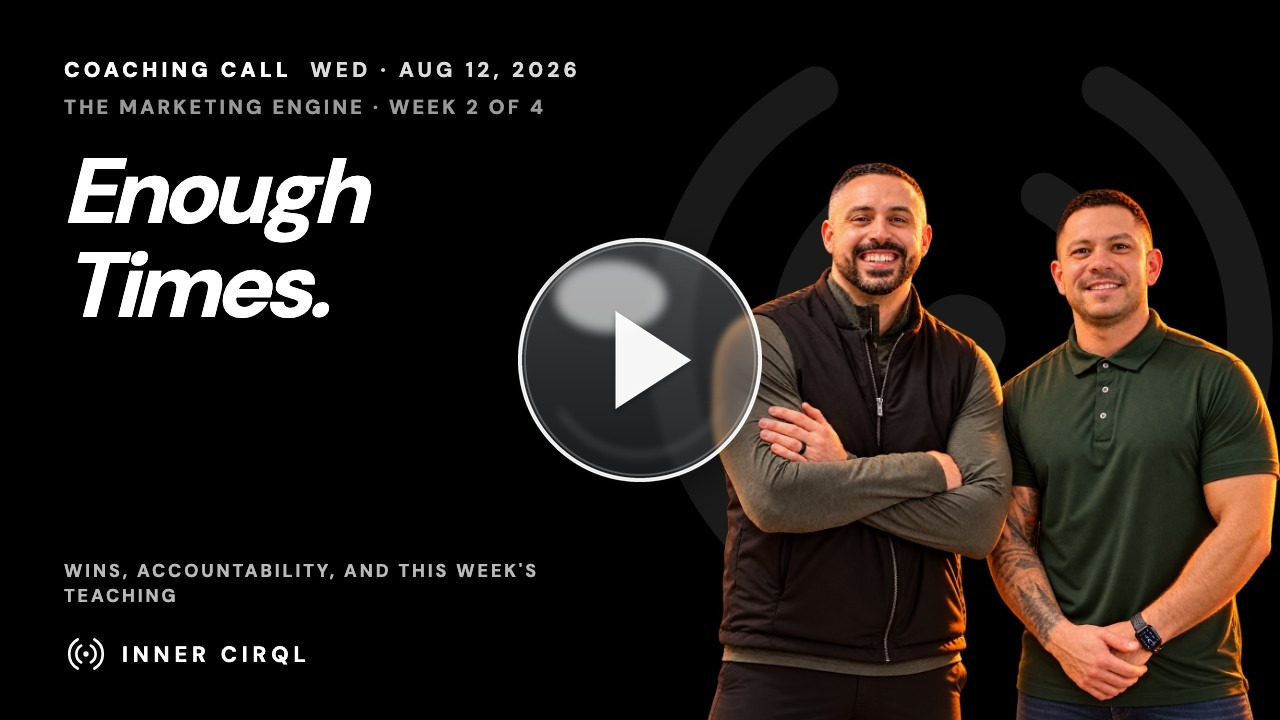
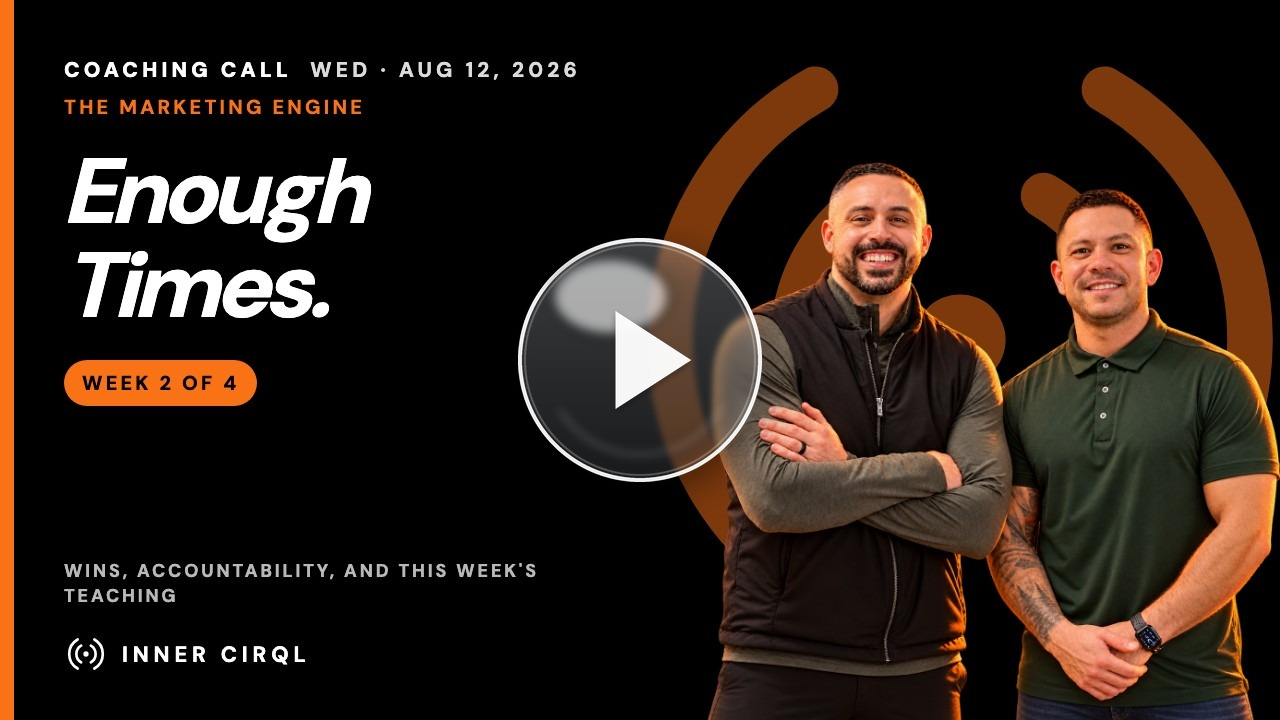
Training: retitle Aug 12 coaching call (The Marketing Engine · Week 2 · Enough Times.) + thumbnail

diff --git a/training/index.html b/training/index.html
@@ -94,6 +94,26 @@ window.LIBRARY = {
   ],
   "items": [
     {
+      "id": "v-2026-08-12",
+      "date": "2026-08-12",
+      "dateLabel": "August 12, 2026",
+      "series": "engine",
+      "week": 2,
+      "name": "Enough Times.",
+      "title": "The Marketing Engine · Week 2 · Enough Times.",
+      "headline": [
+        "Enough",
+        "Times."
+      ],
+      "sub": "The Marketing Engine · Week 2 of 4",
+      "desc": "Follow-up is marketing. Say it enough times and watch it compound: pick your number, write it into the tracker, and let Clara run the touches. Wins, accountability, and the teaching segment, edited replay.",
+      "href": "https://coach.theinnercirql.com/2026-08-12/",
+      "pdf": null,
+      "slides": null,
+      "embed": "https://www.youtube.com/embed/EGGsCkQDVTc?rel=0&modestbranding=1",
+      "thumb": "/assets/thumbs/aug-12-call.jpg?v=29920184"
+    },
+    {
       "id": "v-2026-08-05",
       "date": "2026-08-05",
       "dateLabel": "August 5, 2026",
@@ -532,26 +552,6 @@ window.LIBRARY = {
       "slides": null,
       "embed": "https://www.youtube.com/embed/-776aqFazVE?rel=0&modestbranding=1",
       "thumb": "/assets/thumbs/aug-19-call.jpg?v=29920167"
-    },
-    {
-      "id": "v-2026-08-12",
-      "date": "2026-08-12",
-      "dateLabel": "August 12, 2026",
-      "series": "engine",
-      "week": 2,
-      "name": "Enough Times.",
-      "title": "The Marketing Engine · Week 2 · Enough Times.",
-      "headline": [
-        "Enough",
-        "Times."
-      ],
-      "sub": "The Marketing Engine · Week 2 of 4",
-      "desc": "Follow-up is marketing. Say it enough times and watch it compound: pick your number, write it into the tracker, and let Clara run the touches. Wins, accountability, and the teaching segment, edited replay.",
-      "href": "https://coach.theinnercirql.com/2026-08-12/",
-      "pdf": null,
-      "slides": null,
-      "embed": "https://www.youtube.com/embed/EGGsCkQDVTc?rel=0&modestbranding=1",
-      "thumb": "/assets/thumbs/aug-12-call.jpg?v=29920167"
     },
     {
       "id": "t-become-a-listing-magnet",
